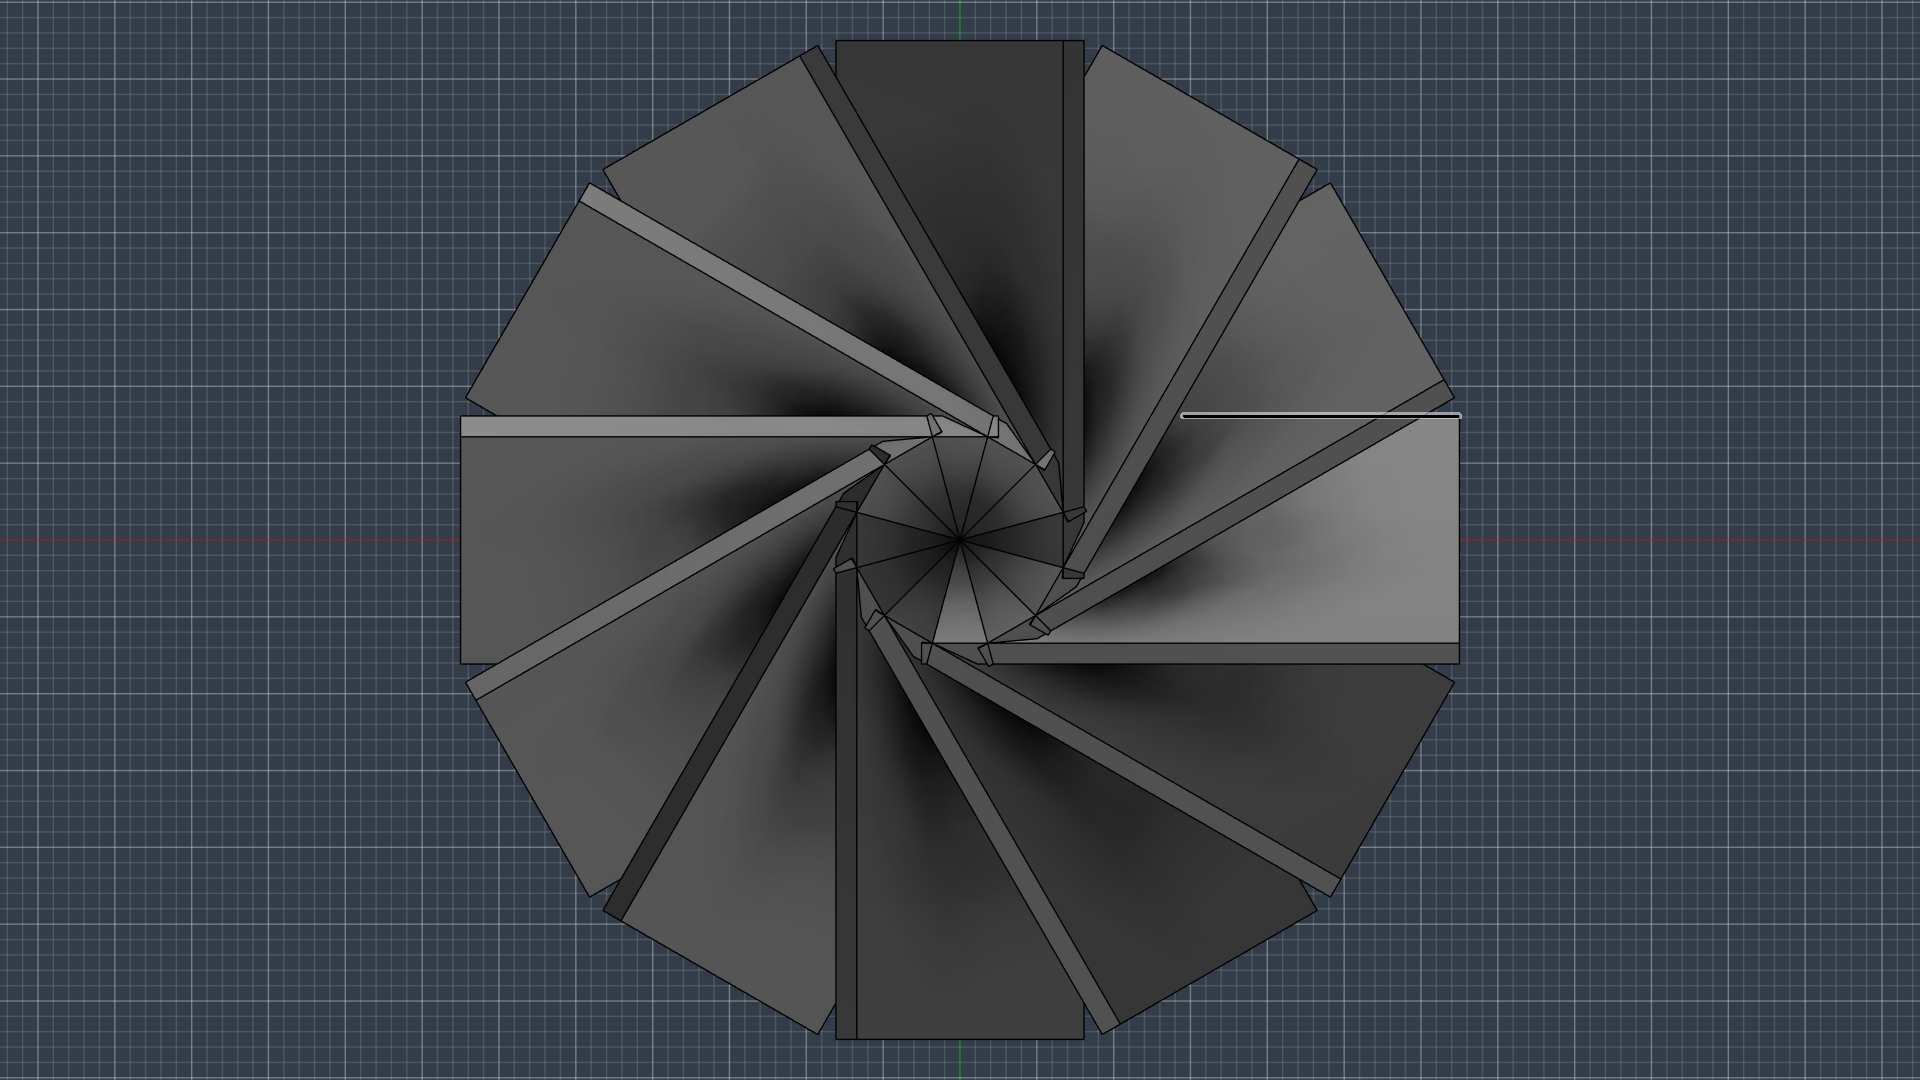
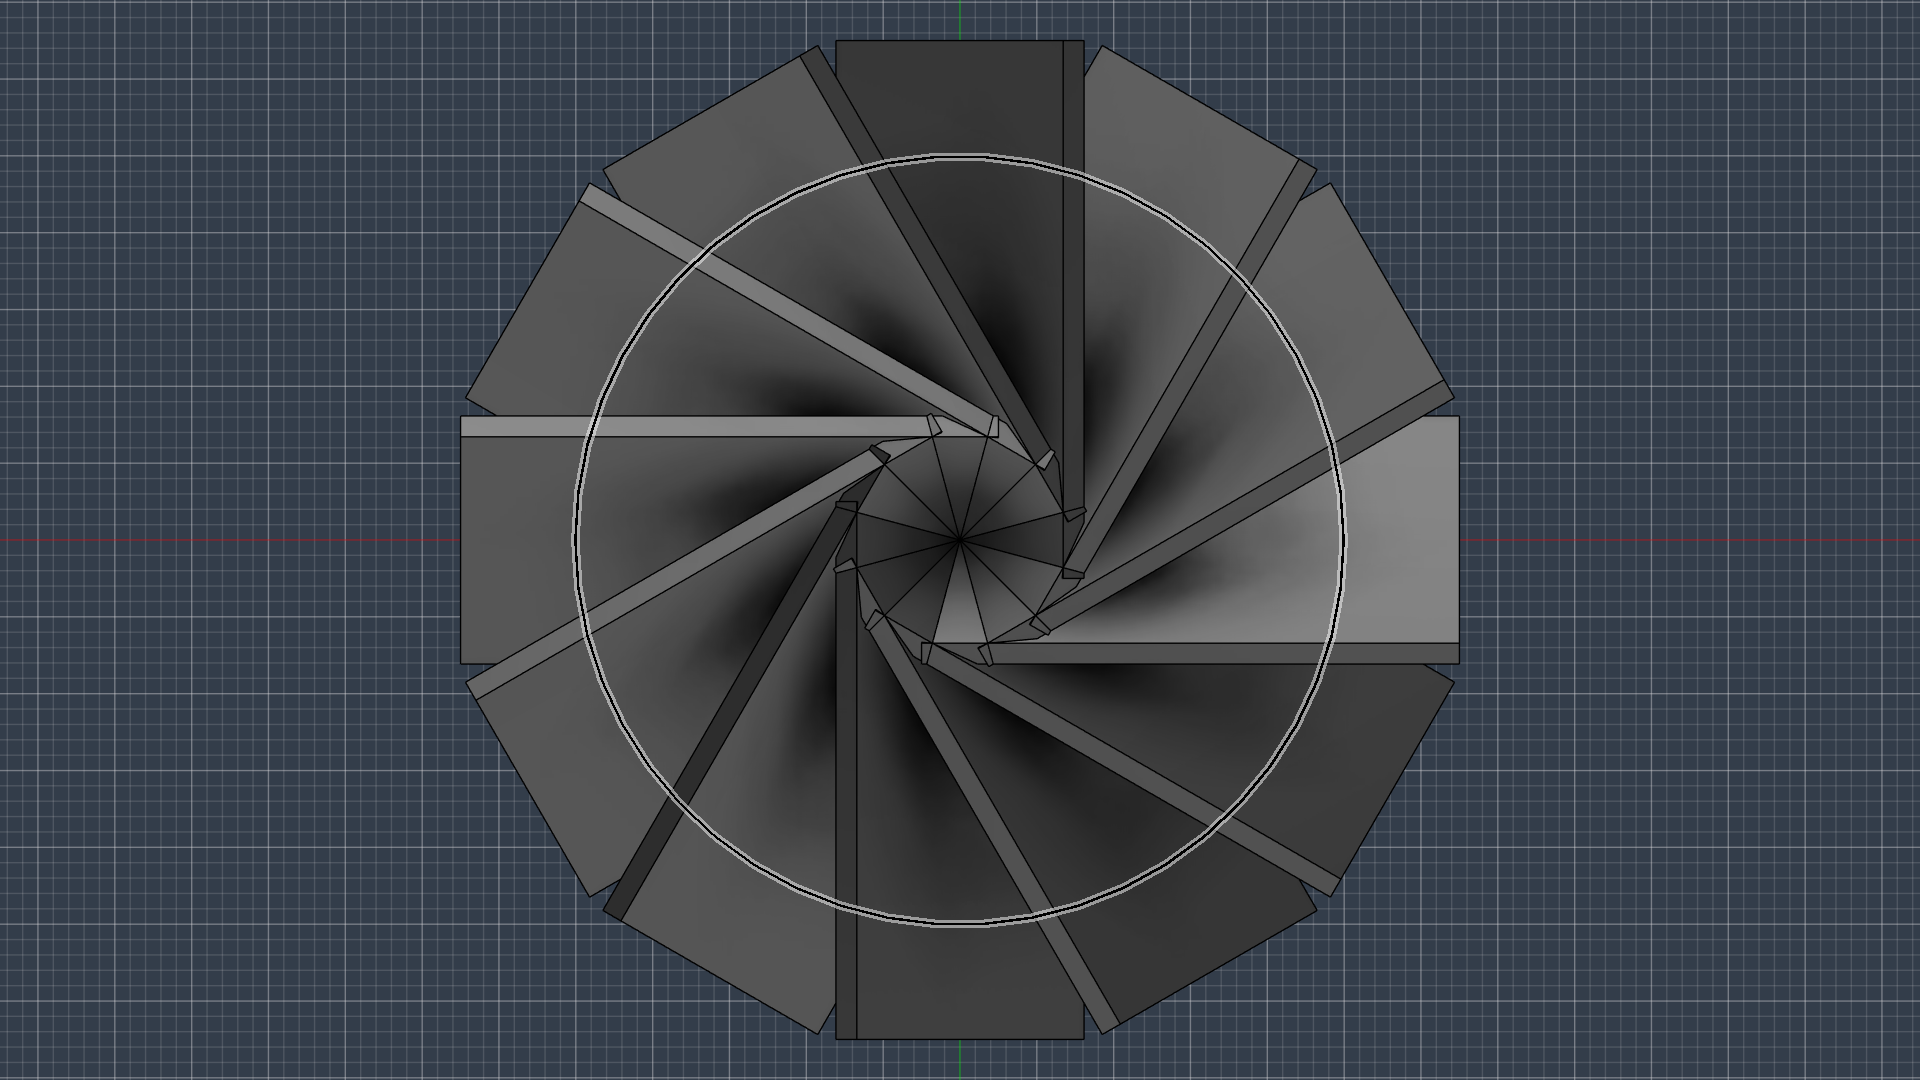
Update pipeline to capture 10 verification camera angles

diff --git a/11_Advanced_Automated_Pipeline/master_pipeline.py b/11_Advanced_Automated_Pipeline/master_pipeline.py
@@ -64,30 +64,27 @@ def run(context):
         
         output_dir = r"{os.path.dirname(step_path)}"
         
-        # 1. Isometric View
+        views_to_capture = {{
+            "top": adsk.core.ViewOrientations.TopViewOrientation,
+            "bottom": adsk.core.ViewOrientations.BottomViewOrientation,
+            "front": adsk.core.ViewOrientations.FrontViewOrientation,
+            "back": adsk.core.ViewOrientations.BackViewOrientation,
+            "left": adsk.core.ViewOrientations.LeftViewOrientation,
+            "right": adsk.core.ViewOrientations.RightViewOrientation,
+            "iso_tr": adsk.core.ViewOrientations.IsoTopRightViewOrientation,
+            "iso_tl": adsk.core.ViewOrientations.IsoTopLeftViewOrientation,
+            "iso_br": adsk.core.ViewOrientations.IsoBottomRightViewOrientation,
+            "iso_bl": adsk.core.ViewOrientations.IsoBottomLeftViewOrientation
+        }}
+        
         cam = viewport.camera
-        cam.viewOrientation = adsk.core.ViewOrientations.IsoTopRightViewOrientation
-        cam.isFitView = True
-        viewport.camera = cam
-        viewport.refresh()
-        iso_path = os.path.join(output_dir, "impeller_iso.png")
-        viewport.saveAsImageFile(iso_path, 1920, 1080)
-        
-        # 2. Top View
-        cam.viewOrientation = adsk.core.ViewOrientations.TopViewOrientation
-        cam.isFitView = True
-        viewport.camera = cam
-        viewport.refresh()
-        top_path = os.path.join(output_dir, "impeller_top.png")
-        viewport.saveAsImageFile(top_path, 1920, 1080)
-        
-        # 3. Front View
-        cam.viewOrientation = adsk.core.ViewOrientations.FrontViewOrientation
-        cam.isFitView = True
-        viewport.camera = cam
-        viewport.refresh()
-        front_path = os.path.join(output_dir, "impeller_front.png")
-        viewport.saveAsImageFile(front_path, 1920, 1080)
+        for view_name, orientation in views_to_capture.items():
+            cam.viewOrientation = orientation
+            cam.isFitView = True
+            viewport.camera = cam
+            viewport.refresh()
+            image_path = os.path.join(output_dir, "impeller_" + view_name + ".png")
+            viewport.saveAsImageFile(image_path, 1920, 1080)
         
         # Close document
         doc.close(False)